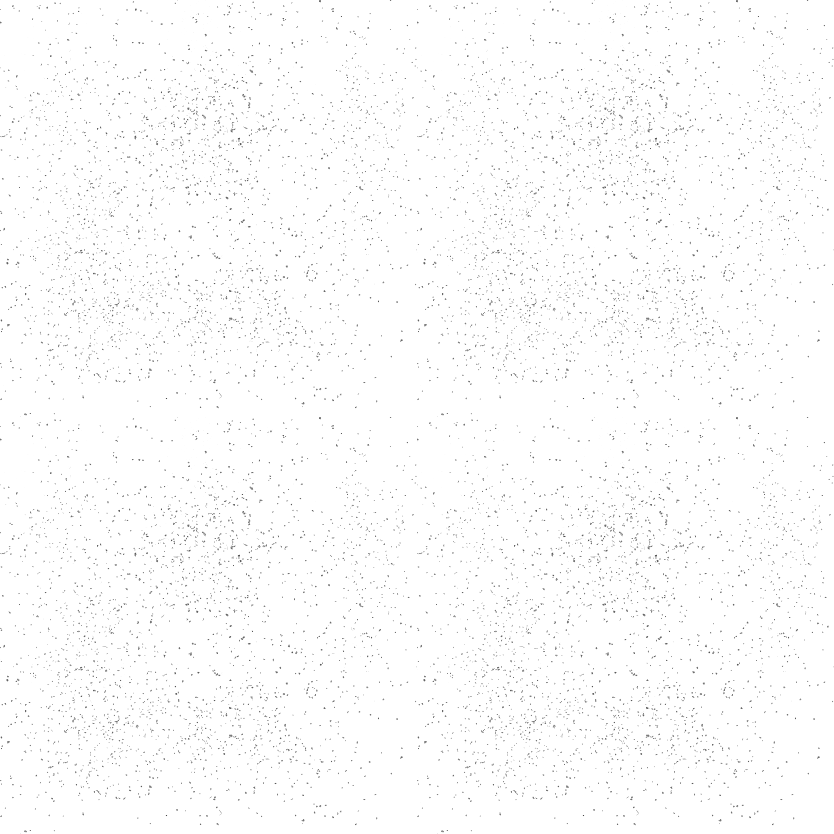
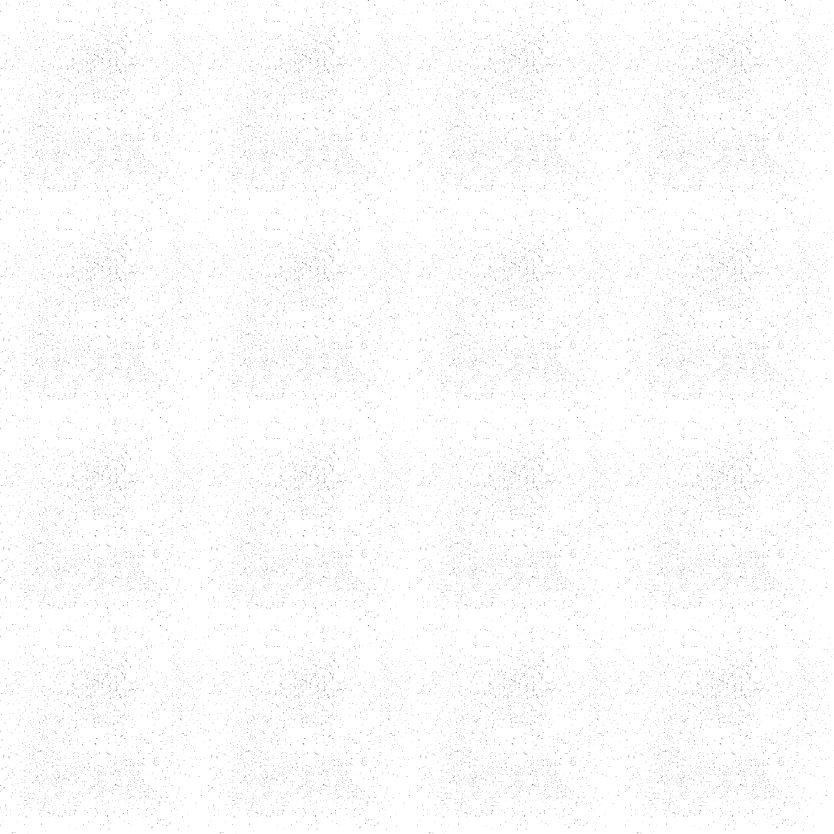
retro filter, modified loader, changed grain img

diff --git a/resources/css/home.css b/resources/css/home.css
@@ -1,6 +1,6 @@
 html {
     /* background: rgb(240, 231, 209); */
-    background: rgb(244, 236, 226);
+    background: rgb(255, 245, 223);
 
     color: black;
 }
@@ -36,13 +36,27 @@ html:after {
   90% { transform:translate(-10%, 10%) }
 }
 
+@keyframes bounce {
+  0%, 100% { transform:rotate(-5deg) }
+  50% { transform:rotate(-4deg) }
+  70% { transform:rotate(10deg) }
+  /* 0%, 100% { transform:rotate(0deg) }
+  20% { transform:rotate(1deg) }
+  30% { transform:rotate(20deg) }
+  50% { transform:rotate(-5deg) }
+  60% { transform:rotate(5deg) }
+  65% { transform:rotate(-5deg) }
+  70% { transform:rotate(10deg) } */
+  /* 90% { transform:rotate(-10deg, 10deg) } */
+}
+
 .loader-wrapper {
   width: 100%;
   height: 100%;
   position: absolute;
   top: 0;
   left: 0;
-  background-color: #252d19;
+  background-color: #73ac1e;
   display:flex;
   justify-content: center;
   align-items: center;
@@ -51,11 +65,68 @@ html:after {
 
 .loader {
   display: inline-block;
-  width: 30px;
+  width: 100px;
   height: 30px;
   position: relative;
-  /* border: 4px solid #Fff; */
+  color: rgb(255, 245, 223);
   animation: loader 2s infinite ease;
+  margin: 0 auto;
+  text-align: center;
+}
+
+img {
+  filter: sepia(30%) saturate(2);
+}
+
+
+.project-names {
+  margin: auto;
+  padding-top: 5px;
+  font-size: 10px;
+  /* color: rgba(255, 225, 236, 0.7); */
+}
+
+.icon-container {
+  background: rgba(255, 226, 211, 0.3);
+  text-align: center;
+  visibility: hidden;
+  width: 100px;
+  height: auto;
+  position: absolute;
+  padding: 15px 0px;
+  border-radius: 5px;
+
+  -webkit-transition: .3s;
+      transition: background .3s;
+}
+
+.tooltiptext {
+  /* visibility: hidden; */
+  opacity: 0;
+  width: 200px;
+  background-color: white;
+  color: black;
+  text-align: center;
+  border: 2px dashed pink;
+  border-radius: 5px;
+  padding: 15px;
+  font-size: 10px;
+
+  /* Position the tooltip */
+  position: absolute;
+  z-index: 2;
+  top: 0px;
+  left: 200%;
+  margin-left: -60px;
+
+  -webkit-transition: 0.3s;
+      transition: opacity 0.3s;
+}
+
+.icon-container:hover .tooltiptext {
+  opacity: 1;
+  -webkit-transition: 0.3s;
+      transition: opacity 0.3s;
 }
 
 @media screen and (min-width: 601px) {
@@ -102,7 +173,8 @@ html:after {
     z-index: -1;
     left: 15vw;
     top: 15vh;
-    width: 15%;
+    width: 10%;
+    min-width: 150px;
     transform: rotate(-5deg);
 
     /* background-color: red; */
@@ -110,7 +182,9 @@ html:after {
     text-align: center;
 
     -webkit-transition: 1s;
-		transition: transform 1s;
+    transition: transform 1s;
+    
+    animation: bounce 8s linear infinite;
   }
 
   #art {
@@ -122,7 +196,6 @@ html:after {
   #art-container:hover {
     transform: rotate(-1085deg);
     z-index: 5;
-
     -webkit-transition: 1s;
 		transition: transform 1s;
   }
@@ -204,7 +277,7 @@ html:after {
     /* background-color: rgb(202, 248, 250); */
     padding: 10%;
     border-radius: 7px;
-    color: rgb(95, 95, 95);
+    color: black;
 
     opacity: 0;
 

diff --git a/resources/css/home-mobile.css b/resources/css/home-mobile.css
@@ -41,7 +41,7 @@
     #art-container {
         position: absolute;
         z-index: -1;
-        left: 15vw;
+        left: 10vw;
         top: 2vh;
         width: 15%;
       }
@@ -51,7 +51,7 @@
         width: 100%;
         margin-top: 60%;
         margin-right: 20%;
-        /* transform: rotate(-110deg); */
+        transform: rotate(-10deg);
     
         -webkit-transition: 1s;
             transition: transform 1s;
@@ -140,7 +140,7 @@
     #phone-container {
       position: absolute;
       right: 10%;
-      top: 10%;
+      top: -10%;
       width: 20%;
       overflow: hidden;
       z-index: -1;
@@ -154,60 +154,10 @@
     #welcome-message {
       position: absolute;
       right: 2%;
-      top: -25%;
+      top: -40%;
       width: 18%;
       z-index: -1;
       visibility: hidden;
     }
-  }
-  
-  .project-names {
-      margin: auto;
-      padding-top: 5px;
-      font-size: 10px;
-      /* color: rgba(255, 225, 236, 0.7); */
-  }
-  
-  .icon-container {
-      background: rgba(255, 225, 236, 0.3);
-      text-align: center;
-      visibility: hidden;
-      width: 100px;
-      height: auto;
-      position: absolute;
-      padding: 15px 0px;
-      border-radius: 5px;
-  
-      -webkit-transition: .3s;
-          transition: background .3s;
-  }
-  
-  .tooltiptext {
-      /* visibility: hidden; */
-      opacity: 0;
-      width: 200px;
-      background-color: white;
-      color: black;
-      text-align: center;
-      border: 2px dashed pink;
-      border-radius: 5px;
-      padding: 15px;
-      font-size: 10px;
-  
-      /* Position the tooltip */
-      position: absolute;
-      z-index: 2;
-      top: 0px;
-      left: 200%;
-      margin-left: -60px;
-  
-      -webkit-transition: 0.3s;
-          transition: opacity 0.3s;
-  }
-  
-  .icon-container:hover .tooltiptext {
-      opacity: 1;
-      -webkit-transition: 0.3s;
-          transition: opacity 0.3s;
   }
   

diff --git a/resources/js/script.js b/resources/js/script.js
@@ -20,8 +20,13 @@ $(window).on("load",function(){
 	$(".loader-wrapper").fadeOut("slow");
 });
 
-const backgroundColor0 = "rgba(255, 225, 236, 0.3)";
-const backgroundColor1 = "rgba(255, 225, 236, 0.8)";
+// const backgroundColor0 = "rgba(255, 225, 236, 0.3)";
+// const backgroundColor1 = "rgba(255, 225, 236, 0.8)";
+
+const backgroundColor0 = "rgba(255, 226, 211, 0.3)";
+const backgroundColor1 = "rgb(255, 226, 211, 0.8)";
+
+
 // const backgroundColor = "transparent";
 // const backgroundColor = "rgba(128, 255, 249, 0.78)"
 const padding = "10px 0px";
@@ -29,7 +34,7 @@ const borderRadius = "5px";
 const bottomPadding = 180;
 const rightPadding = 125;
 // 10 is fast enough, 40 is slow enough
-const speed = 20;
+const speed = 10;
 const tooltipLeft = "175%";
 const tooltipRight = "-155%";
 

diff --git a/index.html b/index.html
@@ -20,7 +20,7 @@
 	<body onload="start()">
 		<div class="loader-wrapper">
 			<!-- <span class="loader"><span class="loader-inner"></span></span> -->
-			<span class="loader"><span class="loader-inner">loading...</span></span>
+			<div class="loader"><span class="loader-inner">loading...</span></div>
 		</div>
 		<div id="art-container">
 			<img id="art" src="resources/images/home/tuxedo.jpg" onclick="return art();">
